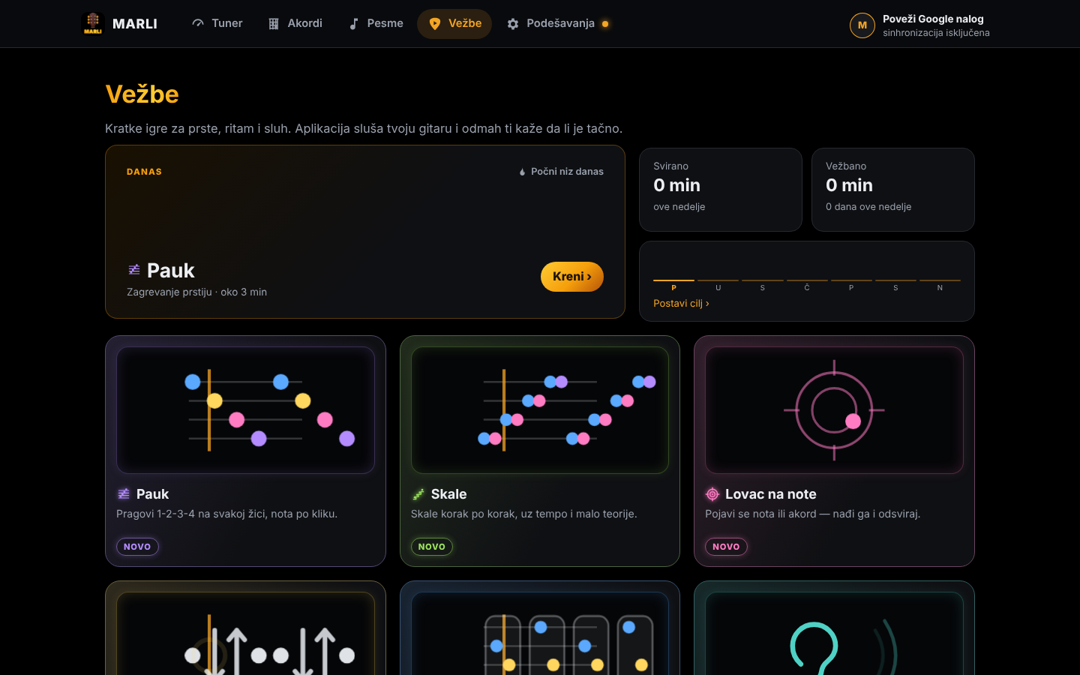
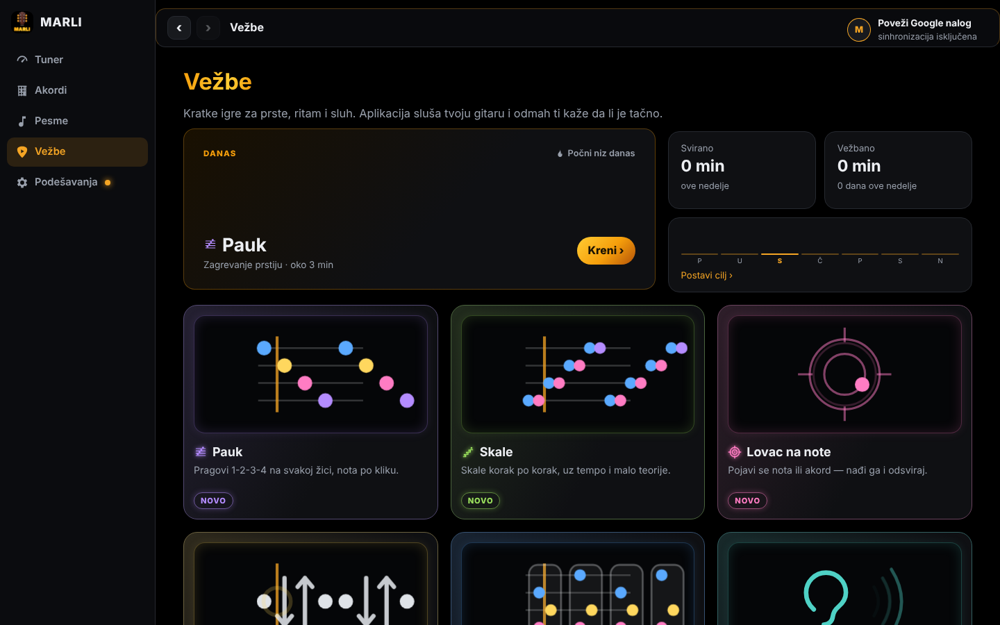
MARLI 1.98: računar — bočna traka i dugme nazad
- Računar: delovi aplikacije u bočnoj traci levo (uvek jednim klikom); na pesmi se traka skupi u ikone
- Gornja traka: ‹ › nazad / napred i putanja (Pesme › Subota u klubu › Lane moje) — klik na deo putanje vodi tamo
- Esc / Backspace: korak nazad sa pesme i set liste (kad nije otvoren prozorčić i ne kucaš); Esc na pesmi i dalje prvo zaustavlja skrolovanje
- Naslov prozora pokazuje gde si („Lane moje — MARLI“) — vidi se i na traci zadataka Windows-a
- Zvonce i nalog gore desno
- Tablet: lupa − 🔍 + ponovo na ekranu pesme
- Šta je novo 1.98 + stranica Novosti sa snimcima

Claude-Session: https://claude.ai/code/session_01NDUSKUN97fWP9dPBbYtahr

diff --git a/src/deskShell.js b/src/deskShell.js
@@ -1,0 +1,66 @@
+// v1.98: računar — bočna traka (aplikacija levo, uvek vidljiva) + gornja traka sadržaja: ‹ › nazad/napred, putanja
+// (Pesme › Subota u klubu › Lane moje), 🔔 i nalog. Instalirana aplikacija na Windows-u nema dugme nazad pregledača,
+// pa je ovde uvek vidljivo. Esc / Backspace = jedan korak nazad (kad nije otvoren prozorčić i ne kucaš);
+// Alt + ← / → i bočni tasteri miša rade sami (pregledač). Naslov prozora = gde si („Lane moje — MARLI“).
+// Učitava se samo na velikom ekranu sa mišem (telefon i tablet ga nikad ne učitaju).
+import { t } from './i18n.js';
+import { esc } from './ui.js';
+
+const SECT = { pesme: 'nav.songs', pesma: 'nav.songs', setlista: 'nav.songs', uredi: 'nav.songs', 'od-nastavnika': 'nav.songs', vezbe: 'nav.practice', akordi: 'nav.chords', tuner: 'nav.tuner', podesavanja: 'nav.settings', ucenici: 'nav.students', ucenik: 'nav.students', ritam: 'nav.practice' };
+const ROOT = { pesme: '#/pesme', pesma: '#/pesme', setlista: '#/pesme?tab=sl', uredi: '#/pesme', 'od-nastavnika': '#/pesme', vezbe: '#/vezbe', akordi: '#/akordi', tuner: '#/tuner', podesavanja: '#/podesavanja', ucenici: '#/ucenici', ucenik: '#/ucenici', ritam: '#/vezbe' };
+// „dubina“: stranice sa kojih Esc / Backspace vraća nazad (ne uređivač — tamo Esc ima svoje značenje)
+const DEEP = /^#\/(pesma|setlista|ucenik|od-nastavnika)\//;
+const pageOf = () => (location.hash.replace(/^#\/?/, '').split(/[/?]/)[0] || 'tuner');
+
+let bar = null;
+const lastSet = { id: '', name: '' }; // set lista iz koje je pesma otvorena (za putanju)
+function crumbs() {
+  const pg = pageOf(), sec = SECT[pg]; if (!sec) return [];
+  const out = [{ label: t(sec), href: ROOT[pg] }];
+  const h1 = [...document.querySelectorAll('#app h1:not(.lib-h1)')].filter((h) => h.offsetParent !== null && !h.closest('[hidden]')).map((h) => h.textContent.trim()).filter(Boolean).pop() || ''; // samo vidljiv naslov (tuner ostaje u pozadini)
+  if (pg === 'setlista') { const nm = h1 || ''; lastSet.id = location.hash.split('/')[2] || ''; lastSet.name = nm; out.push({ label: t('lib.tabSetlists'), href: '#/pesme?tab=sl' }); if (nm) out.push({ label: nm }); }
+  else if (pg === 'pesma') { if (lastSet.name && /[?&]set=/.test(location.hash) === false && history.state?.fromSet) out.push({ label: lastSet.name, href: '#/setlista/' + lastSet.id }); if (h1) out.push({ label: h1 }); }
+  else if (pg === 'vezbe' && location.hash.split('/')[2]) { const g = location.hash.split('/')[2].split('?')[0]; out.push({ label: t('pr.g.' + g) !== 'pr.g.' + g ? t('pr.g.' + g) : (h1 || g) }); }
+  else if (['ucenik', 'od-nastavnika', 'uredi'].includes(pg) && h1) out.push({ label: h1 });
+  return out;
+}
+const canBack = () => { try { if (globalThis.navigation && 'canGoBack' in globalThis.navigation) return globalThis.navigation.canGoBack; } catch {} return history.length > 1; };
+const canFwd = () => { try { if (globalThis.navigation && 'canGoForward' in globalThis.navigation) return globalThis.navigation.canGoForward; } catch {} return true; };
+function paint() {
+  if (!bar) return;
+  const c = crumbs();
+  bar.querySelector('.dsh-crumb').innerHTML = c.map((x, i) => (i < c.length - 1 && x.href ? `<a href="${esc(x.href)}">${esc(x.label)}</a>` : `<b>${esc(x.label)}</b>`)).join('<span class="dsh-sep" aria-hidden="true">›</span>');
+  bar.querySelector('[data-dsh="back"]').disabled = !canBack();
+  bar.querySelector('[data-dsh="fwd"]').disabled = !canFwd();
+  const last = c.length ? c[c.length - 1].label : '';
+  document.title = last && last !== 'MARLI' ? `${last} — MARLI` : 'MARLI';
+  document.body.classList.toggle('side-mini', /^#\/(pesma|uredi)\//.test(location.hash));
+}
+let inited = false;
+export function initDeskShell() {
+  if (inited) return; inited = true;
+  document.body.classList.add('desk-shell');
+  bar = document.createElement('header');
+  bar.className = 'dsh-bar'; bar.setAttribute('aria-label', t('ds.bar'));
+  bar.innerHTML = `<button type="button" class="dsh-nav" data-dsh="back" aria-label="${esc(t('ds.back'))}" title="${esc(t('ds.backTip'))}">‹</button><button type="button" class="dsh-nav" data-dsh="fwd" aria-label="${esc(t('ds.fwd'))}" title="${esc(t('ds.fwdTip'))}">›</button><nav class="dsh-crumb" aria-label="${esc(t('ds.where'))}"></nav><span class="dsh-sp"></span>`;
+  document.body.appendChild(bar);
+  const acct = document.getElementById('navAcct'); if (acct) bar.appendChild(acct); // nalog (i 🔔 ispred njega) gore desno
+  bar.addEventListener('click', (e) => { const b = e.target.closest('[data-dsh]'); if (!b) return; if (b.dataset.dsh === 'back') history.back(); else history.forward(); });
+  // Esc / Backspace: jedan korak nazad sa „dubokih“ stranica, kad ništa drugo nije otvoreno i ne kucaš
+  addEventListener('keydown', (e) => {
+    if (e.defaultPrevented || e.ctrlKey || e.metaKey || e.altKey) return;
+    if (e.key !== 'Escape' && e.key !== 'Backspace') return;
+    const tg = e.target; if (tg && (tg.closest('input, textarea, select, [contenteditable="true"]'))) return;
+    if (document.querySelector('.modal-backdrop, .sheet-backdrop, .qr-inv, .nt-wrap, .te-bar, body.stage-mode, body.pa-on, .track-wrap, .fp-stage')) return;
+    if (!DEEP.test(location.hash)) return;
+    e.preventDefault(); history.back();
+  });
+  // pesma otvorena iz set liste → putanja Pesme › Set liste › Ime › Pesma
+  document.addEventListener('click', (e) => { const a = e.target.closest('a[href^="#/pesma/"]'); if (a && /^#\/setlista\//.test(location.hash)) setTimeout(() => { try { history.replaceState({ ...(history.state || {}), fromSet: true }, ''); } catch {} paint(); }, 0); }, true);
+  // naslov stranice (h1) stiže posle iscrtavanja — osveži putanju još dva puta; bez praćenja celog sadržaja (igre!)
+  addEventListener('hashchange', () => { setTimeout(paint, 60); setTimeout(paint, 450); setTimeout(paint, 1400); });
+  const app = document.getElementById('app'); let q = 0;
+  if (app) new MutationObserver(() => { cancelAnimationFrame(q); q = requestAnimationFrame(paint); }).observe(app, { childList: true });
+  import('./i18n.js').then((m) => m.onLangChange?.(() => { bar.querySelector('[data-dsh="back"]').setAttribute('aria-label', t('ds.back')); paint(); })).catch(() => {});
+  paint();
+}

diff --git a/src/styles.css b/src/styles.css
@@ -2600,3 +2600,42 @@ a.ds-it { text-decoration: none; }
 .ex-play { appearance: none; flex: 1; display: flex; gap: 12px; align-items: center; padding: 10px 2px; border: 0; background: none; color: var(--text); text-align: left; font: inherit; cursor: pointer; min-width: 0; }
 .ex-ic { flex: none; width: 32px; height: 32px; border-radius: 50%; display: grid; place-items: center; background: var(--accent-soft); color: var(--accent); font-size: .8rem; }
 .ex-tx { min-width: 0; } .ex-tx b { display: block; } .ex-tx small { color: var(--muted); font-size: .78rem; }
+
+/* ================= v1.98: računar — bočna traka + gornja traka sa ‹ › i putanjom ================= */
+.dsh-bar { display: none; }
+@media (min-width: 1100px) and (hover: hover) and (pointer: fine) {
+  body.desk-shell { --side-w: 224px; --top-h: 56px; padding-left: var(--side-w); }
+  body.desk-shell.side-mini { --side-w: 72px; }
+  body.desk-shell.stage-mode, body.desk-shell.pa-on { --side-w: 0px; --top-h: 0px; }
+  body.desk-shell .nav {
+    top: 0; bottom: 0; left: 0; right: auto; width: var(--side-w); height: auto;
+    flex-direction: column; align-items: stretch; justify-content: flex-start; gap: 2px; padding: 14px 10px;
+    border: 0; border-right: 1px solid var(--line); background: #0b0c0f; overflow-y: auto;
+  }
+  body.desk-shell .nav-brand { margin: 2px 6px 16px; }
+  body.desk-shell .nav a { justify-content: flex-start; width: 100%; height: 42px; padding: 0 12px; border-radius: 10px; flex: none; }
+  body.desk-shell .nav a.nav-teach { order: 0; }
+  body.desk-shell.side-mini .nav a span, body.desk-shell.side-mini .nav-brand span { display: none; }
+  body.desk-shell.side-mini .nav a { justify-content: center; padding: 0; }
+  body.desk-shell.side-mini .nav-brand { justify-content: center; margin: 2px 0 16px; }
+  body.desk-shell.side-mini .nav a .nav-badge { position: absolute; margin: -18px 0 0 22px; }
+  body.desk-shell.stage-mode .nav, body.desk-shell.pa-on .nav, body.desk-shell.stage-mode .dsh-bar, body.desk-shell.pa-on .dsh-bar { display: none; }
+  body.desk-shell .dsh-bar { display: flex; align-items: center; gap: 8px; position: fixed; z-index: 55; top: 0; left: var(--side-w); right: 0; height: var(--top-h); padding: 0 20px 0 16px; background: rgba(10, 11, 14, .94); border-bottom: 1px solid var(--line); backdrop-filter: blur(8px); }
+  .dsh-nav { appearance: none; width: 34px; height: 34px; border-radius: 10px; border: 1px solid var(--line); background: var(--surface-2); color: var(--text); font: 800 1.15rem/1 var(--sans); display: grid; place-items: center; padding: 0 0 2px; }
+  .dsh-nav:disabled { opacity: .35; cursor: default; }
+  .dsh-nav:not(:disabled):hover { border-color: var(--accent); color: var(--accent); }
+  .dsh-crumb { display: flex; align-items: center; gap: 8px; min-width: 0; margin-left: 6px; font-weight: 650; color: var(--muted); white-space: nowrap; overflow: hidden; }
+  .dsh-crumb a { color: var(--muted); text-decoration: none; }
+  .dsh-crumb a:hover { color: var(--accent); }
+  .dsh-crumb b { color: var(--text); overflow: hidden; text-overflow: ellipsis; }
+  .dsh-sep { opacity: .5; }
+  .dsh-sp { flex: 1; }
+  body.desk-shell .dsh-bar .nav-acct:not([hidden]) { margin-left: 4px; }
+  body.desk-shell .dsh-bar .nt-bell { margin-left: 4px; }
+  body.desk-shell .drive-banner { left: calc(var(--side-w) + 12px); }
+  body.desk-shell .pq-pill { left: calc(var(--side-w) + 24px); }
+}
+/* v1.98: tablet (i veći ekran na dodir) — lupa − 🔍 + i na mirnom ekranu pesme */
+@media (min-width: 700px) {
+  .song-view.calm .zoom-wrap { display: flex !important; }
+}

diff --git a/docs/novosti/index.html b/docs/novosti/index.html
@@ -47,6 +47,23 @@
   <p class="muted" data-sr style="color:var(--muted)">Šta je novo u aplikaciji — sa snimcima ekrana i kratkim uputstvom.</p>
   <p class="muted" data-en style="color:var(--muted)">What's new in the app — with screenshots and short how-tos.</p>
 
+  <section class="ver" id="v1.98">
+    <h2><span class="tag">1.98</span> <span data-sr>Računar: bočna traka i dugme nazad</span><span data-en>Computer: side bar and back button</span> <small>11. 11. 2026.</small></h2>
+    <div class="card">
+      <div class="k" data-sr>Računar</div><div class="k" data-en>Computer</div>
+      <p data-sr>Delovi aplikacije (Učenici, Tuner, Akordi, Pesme, Vežbe, Podešavanja) su sada u <b>bočnoj traci levo</b> — uvek jednim klikom, sa bilo kog mesta. Gore je traka sa <b>‹ › nazad / napred</b> i <b>putanjom</b> (npr. Pesme › Subota u klubu › Lane moje); klik na deo putanje vodi tamo. Na ekranu pesme bočna traka se skupi u ikone, da tekst ima više mesta. Zvonce i nalog su gore desno.</p>
+      <p data-en>The app sections (Students, Tuner, Chords, Songs, Practice, Settings) are now in a <b>side bar on the left</b> — always one click away, from anywhere. At the top is a bar with <b>‹ › back / forward</b> and the <b>path</b> (e.g. Songs › Saturday gig › Lane moje); click part of the path to go there. On a song the side bar shrinks to icons so the lyrics get more room. The bell and your account are at the top right.</p>
+      <img class="shot" src="img/racunar-traka.png" alt="" style="max-width:100%">
+      <p data-sr><b>Instalirana aplikacija na Windows-u</b> nema dugme nazad pregledača — zato je ‹ uvek vidljivo. Uz to: <b>Esc</b> ili <b>Backspace</b> vraća korak nazad sa pesme ili set liste (kad nije otvoren prozorčić i ne kucaš), <b>Alt + ← / →</b> i bočni tasteri miša rade nazad / napred, a <b>naslov prozora</b> pokazuje gde si (vidi se i na traci zadataka).</p>
+      <p data-en>The <b>installed app on Windows</b> has no browser back button — so ‹ is always visible. Also: <b>Esc</b> or <b>Backspace</b> goes one step back from a song or set list (when no dialog is open and you are not typing), <b>Alt + ← / →</b> and the mouse side buttons go back / forward, and the <b>window title</b> shows where you are (also on the taskbar).</p>
+      <img class="shot" src="img/racunar-vezbe.png" alt="" style="max-width:100%">
+      <div class="k" data-sr>Tablet</div><div class="k" data-en>Tablet</div>
+      <p data-sr>Na ekranu pesme na tabletu vraćena je lupa <b>− 🔍 +</b> pored teksta — veličina teksta jednim dodirom. Štipanje i dalje radi.</p>
+      <p data-en>On the tablet song screen the <b>− 🔍 +</b> magnifier is back next to the lyrics — text size in one tap. Pinching still works.</p>
+      <img class="shot" src="img/tablet-lupa.png" alt="" style="max-width:280px">
+    </div>
+  </section>
+
   <section class="ver" id="v1.97">
     <h2><span class="tag">1.97</span> <span data-sr>Moja vežba: ritam i sačuvane vežbe</span><span data-en>My exercise: rhythm and saved exercises</span> <small>11. 11. 2026.</small></h2>
     <div class="card">

diff --git a/src/whatsnew.js b/src/whatsnew.js
@@ -5,6 +5,11 @@ import { esc, dialog } from './ui.js';
 import { APP_VERSION } from './version.js';
 
 export const NOTES = [
+  { v: '1.98', date: '2026-11-11', items: [
+    { i: '🖥', sr: ['Računar: bočna traka i dugme nazad', 'Delovi aplikacije su levo, uvek jednim klikom. Gore: ‹ › nazad i napred i putanja (Pesme › Subota u klubu › Lane moje) — klik na deo putanje vraća tamo. Na pesmi se traka skupi u ikone. Važno za instaliranu aplikaciju na Windows-u, gde nema dugmeta nazad.'], en: ['Computer: side bar and back button', 'App sections are on the left, always one click away. At the top: ‹ › back and forward and the path (Songs › Saturday gig › Lane moje) — click part of the path to go there. On a song the bar shrinks to icons. Important for the installed app on Windows, which has no back button.'] },
+    { i: '⌨', sr: ['Esc, Alt + ← i naslov prozora', 'Esc ili Backspace vraća korak nazad sa pesme ili set liste (kad nije otvoren prozorčić); Alt + ← / → i bočni tasteri miša takođe. Naslov prozora pokazuje gde si.'], en: ['Esc, Alt + ← and window title', 'Esc or Backspace goes one step back from a song or set list (when no dialog is open); so do Alt + ← / → and the mouse side buttons. The window title shows where you are.'] },
+    { i: '🔍', sr: ['Tablet: lupa na pesmi', 'Na tabletu se − 🔍 + vratilo na ekran pesme, pored teksta — veličina teksta jednim dodirom (i dalje radi i štipanje).'], en: ['Tablet: magnifier on songs', 'On tablets − 🔍 + is back on the song screen, next to the lyrics — text size in one tap (pinching still works).'] },
+  ] },
   { v: '1.97', date: '2026-11-11', items: [
     { i: '🥁', sr: ['Ritam u Promeni akorda', '„Samo na 1“ ili obrazac udaranja (folk, pop, rok, balada, rege…) za ceo niz — ili „Ritam po akordu“: svaki akord svoj obrazac. Akord se proverava na prvom udarcu, ostali udarci na vreme.'], en: ['Rhythm in Chord changes', '“Only on 1” or a strumming pattern (folk, pop, rock, ballad, reggae…) for the whole sequence — or “Rhythm per chord”: each chord its own pattern. The chord is checked on the first strum, the other strums for timing.'] },
     { i: '💾', sr: ['Moje vežbe', '„Sačuvaj kao vežbu“ — niz, trajanja i ritam ostaju pod imenom, u Vežbama na vrhu, na svim tvojim uređajima. „Iz pesme…“ pravi niz od strofe ili refrena tvoje pesme.'], en: ['My exercises', '“Save as exercise” — the sequence, lengths and rhythm are kept under a name, at the top of Practice, on all your devices. “From a song…” builds a sequence from a verse or chorus of your song.'] },

diff --git a/src/main.js b/src/main.js
@@ -354,7 +354,7 @@ idle(() => import('./activity.js').then((m) => m.startActivity()).catch(() => {}
 idle(() => import('./feedback.js').then((m) => m.initFeedback()).catch(() => {})); // v1.76: utisci koji čekaju se pošalju
 idle(() => import('./db.js').then(async ({ settings }) => { const m = await settings.get('myTeacher', null); if (m && m.prog && m.prog.on) (await import('./progress.js')).initProgress(); if (m && m.planFile) { const P = await import('./plan.js'); P.watchTasks(); P.refreshPlan().catch(() => {}); } if (m && m.box) (await import('./teachBox.js')).initBox(); const tc = await settings.get('teacher', null); if (tc && tc.on) (await import('./teachBox.js')).initTeacherPoll(); if (m || (tc && tc.on) || ((await settings.get('notes', [])) || []).length) (await import('./notify.js')).initBell(); }).catch(() => {})); // v1.94: sanduče (učenik) i zahtevi iz fajlova napretka (nastavnik) // v1.80: napredak za nastavnika (samo ako je uključeno)
 const DESK = matchMedia('(min-width: 1100px) and (hover: hover) and (pointer: fine)');
-const deskAcct = () => { if (DESK.matches) import('./navAcct.js').then((m) => m.initNavAcct()).catch(() => {}); };
+const deskAcct = () => { if (DESK.matches) { import('./navAcct.js').then((m) => m.initNavAcct()).catch(() => {}); import('./deskShell.js').then((m) => m.initDeskShell()).catch(() => {}); } }; // v1.98: bočna traka + ‹ › putanja
 deskAcct(); DESK.addEventListener?.('change', deskAcct); // v1.77: nalog u gornjoj traci (samo računar)
 // v1.70.1: jednom — „Prenesi ključ na moje uređaje“ uključeno i model „Automatski“ (i na već instaliranim; stari ručni izbor modela se ne vraća preko sinhronizacije)
 idle(async () => {

diff --git a/src/keys.js b/src/keys.js
@@ -61,8 +61,9 @@ function onKey(e) {
   if (e.key === '-' || e.key === '_') { e.preventDefault(); zoomStep(sv, -1); return; }
   if ((e.key === 'ArrowRight' || e.key === 'ArrowLeft') && !e.repeat) { if (nextSong(e.key === 'ArrowRight' ? 1 : -1)) e.preventDefault(); return; }
   if (e.key === 'Escape') {
-    if (playing) { document.getElementById('sPlay')?.click(); return; }
-    if (!document.body.classList.contains('two-pane-mode')) sv.querySelector('.topbar .back')?.click();
+    if (playing) { e.preventDefault(); document.getElementById('sPlay')?.click(); return; } // v1.98: obrađeno — bočna traka ne vraća nazad
+    const back = !document.body.classList.contains('two-pane-mode') && sv.querySelector('.topbar .back');
+    if (back) { e.preventDefault(); back.click(); }
   }
 }
 

diff --git a/src/i18n-en.js b/src/i18n-en.js
@@ -1043,6 +1043,12 @@ export default {
   'qr.howTitle': "How should {name} get the invite?",
   'qr.howBody': "If you’re together, show the QR — the student scans it with the camera. For an online lesson, copy the link and send it however you like.",
   'qr.howMsg': "Send by message",
+  'ds.back': "Back",
+  'ds.backTip': "Back (Alt + ←, Esc)",
+  'ds.fwd': "Forward",
+  'ds.fwdTip': "Forward (Alt + →)",
+  'ds.bar': "Where you are",
+  'ds.where': "Breadcrumb",
   'cs.rhythm': "Rhythm",
   'cs.perChord': "Rhythm per chord",
   'cs.r.one': "Only on 1",

diff --git a/src/i18n.js b/src/i18n.js
@@ -1057,6 +1057,12 @@ const sr = {
   'qr.howTitle': "Kako da {name} dobije pozivnicu?",
   'qr.howBody': "Ako ste zajedno, pokaži QR — učenik ga skenira kamerom. Ako je čas preko interneta, kopiraj link i pošalji ga kako želiš.",
   'qr.howMsg': "Pošalji porukom",
+  'ds.back': "Nazad",
+  'ds.backTip': "Nazad (Alt + ←, Esc)",
+  'ds.fwd': "Napred",
+  'ds.fwdTip': "Napred (Alt + →)",
+  'ds.bar': "Gde si",
+  'ds.where': "Putanja",
   'cs.rhythm': "Ritam",
   'cs.perChord': "Ritam po akordu",
   'cs.r.one': "Samo na 1",

diff --git a/sw.js b/sw.js
@@ -1,6 +1,6 @@
 // Rad bez interneta: cela aplikacija se čuva u kešu i služi iz njega (uvek ista, usklađena verzija).
 // Nova verzija = novi broj u CACHE (scripts/update-sw.mjs). Aplikacija tada prikaže „Osveži“.
-const CACHE = "gitara-v145";
+const CACHE = "gitara-v146";
 const SHELL = [
   "./",
   "index.html",
@@ -19,6 +19,7 @@ const SHELL = [
   "src/collections.js",
   "src/db.js",
   "src/demo.js",
+  "src/deskShell.js",
   "src/diag.js",
   "src/diagram.js",
   "src/drive.js",

diff --git a/src/version.js b/src/version.js
@@ -1,1 +1,1 @@
-export const APP_VERSION = '1.97.0';
+export const APP_VERSION = '1.98.0';
